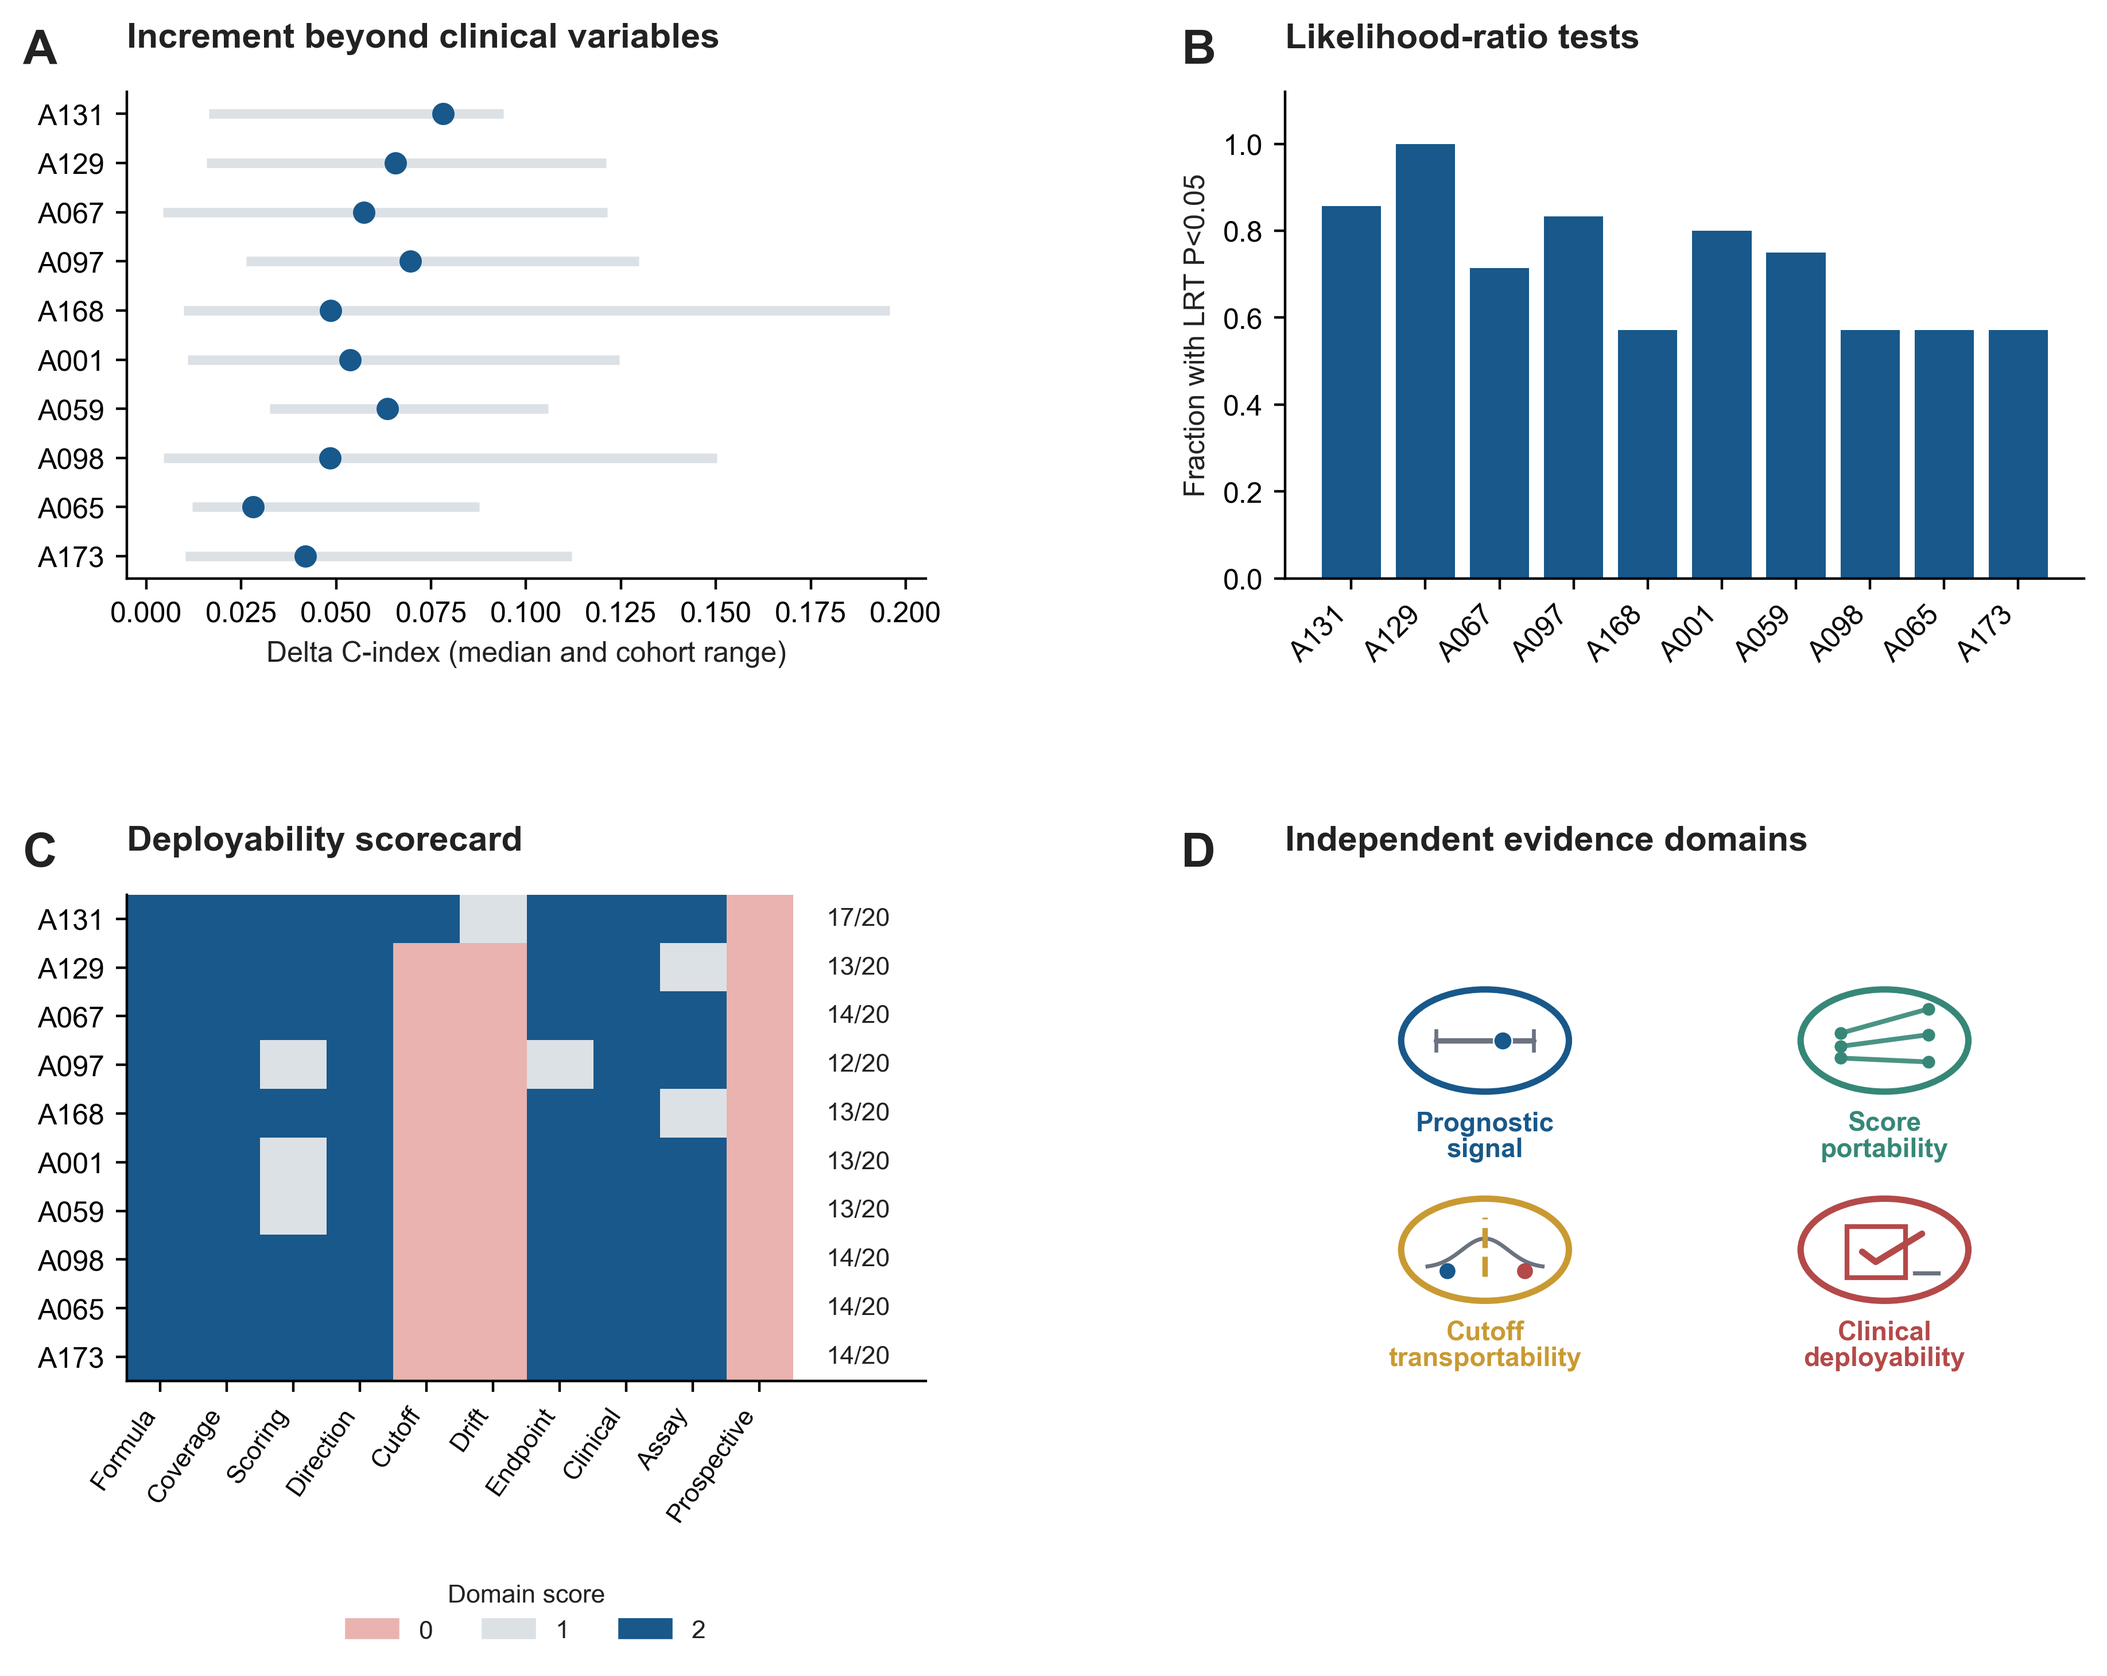
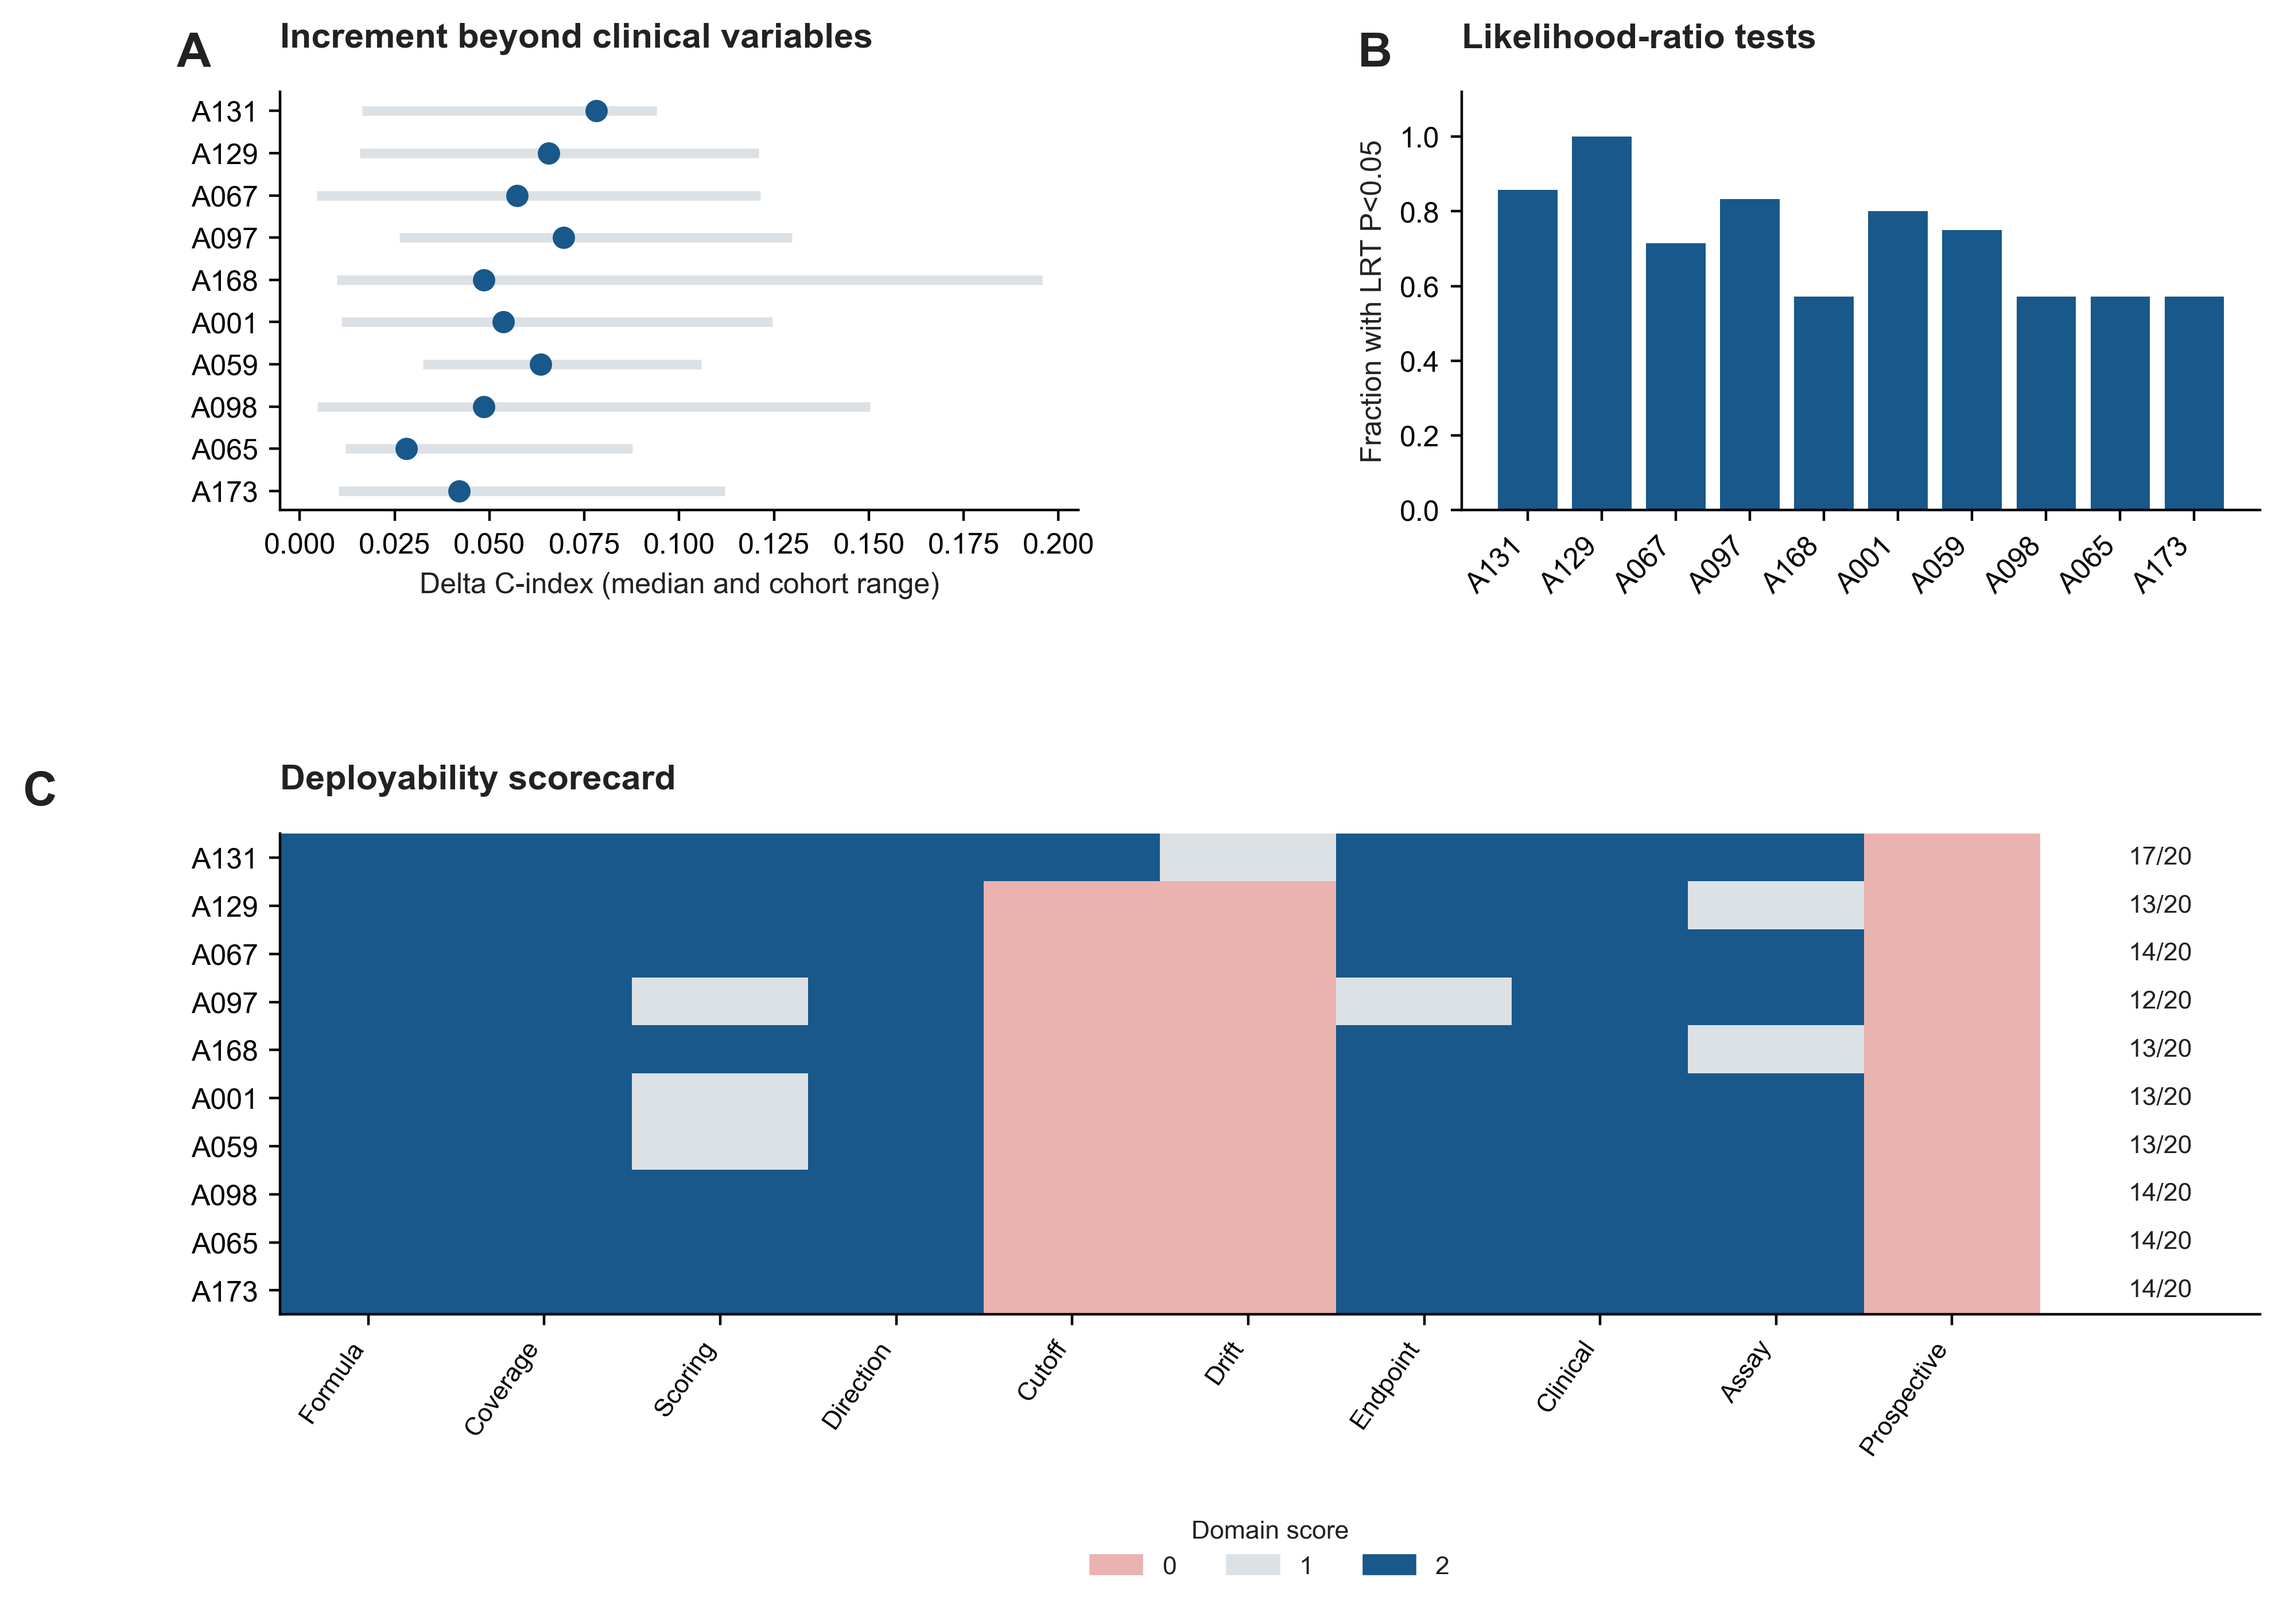
Remove non-data Figure 5D panel

diff --git a/code_availability.md b/code_availability.md
@@ -1,6 +1,6 @@
 # Code Availability
 
-Analysis and figure-generation scripts are available at https://github.com/zhang874681817/luad-deployability-audit and archived under the Zenodo concept DOI https://doi.org/10.5281/zenodo.20507011. The synchronized release is tagged `v1.0.0`.
+Analysis and figure-generation scripts are available at https://github.com/zhang874681817/luad-deployability-audit and archived under the Zenodo concept DOI https://doi.org/10.5281/zenodo.20507011. The synchronized release is tagged `v1.0.1`.
 
 The reproducibility entry points are `REPRODUCIBILITY.md`, `reproducibility_runbook.md`, `environment.yml`, `requirements.txt` and the scripts in `scripts/`.
 

diff --git a/README.md b/README.md
@@ -9,7 +9,7 @@ This is not a new LUAD prognostic-signature discovery study. The audit evaluates
 ## Repository and Archive
 
 - Public repository: https://github.com/zhang874681817/luad-deployability-audit
-- Current release: `v1.0.0`
+- Current release: `v1.0.1`
 - Concept DOI (resolves to the latest Zenodo version): https://doi.org/10.5281/zenodo.20507011
 - Previous `v0.1.0` version DOI: https://doi.org/10.5281/zenodo.20507012
 
@@ -47,7 +47,7 @@ Deployability of published lung adenocarcinoma transcriptomic prognostic signatu
 
 Archived concept DOI: https://doi.org/10.5281/zenodo.20507011
 
-Release tag: `v1.0.0`
+Release tag: `v1.0.1`
 
 ## License
 

diff --git a/PUBLIC_RELEASE_NOTES.md b/PUBLIC_RELEASE_NOTES.md
@@ -1,5 +1,12 @@
 # Public Release Notes
 
+## v1.0.1 (2026-10-12)
+
+This visual-only correction removes the former non-data Figure 5D panel and
+reflows Figure 5 as three data-driven panels. The clinical increment results,
+likelihood-ratio test proportions, deployability scorecard values, source data,
+study conclusions and interpretation boundaries are unchanged.
+
 ## v1.0.0 (2026-10-12)
 
 This release synchronizes the public repository with the final manuscript audit package.

diff --git a/reproducibility_runbook.md b/reproducibility_runbook.md
@@ -43,6 +43,6 @@ Raw third-party matrices are not redistributed.
 ## Public Archive
 
 - Repository: https://github.com/zhang874681817/luad-deployability-audit
-- Release tag: `v1.0.0`
+- Release tag: `v1.0.1`
 - Zenodo concept DOI: https://doi.org/10.5281/zenodo.20507011
 - Previous `v0.1.0` version DOI: https://doi.org/10.5281/zenodo.20507012
